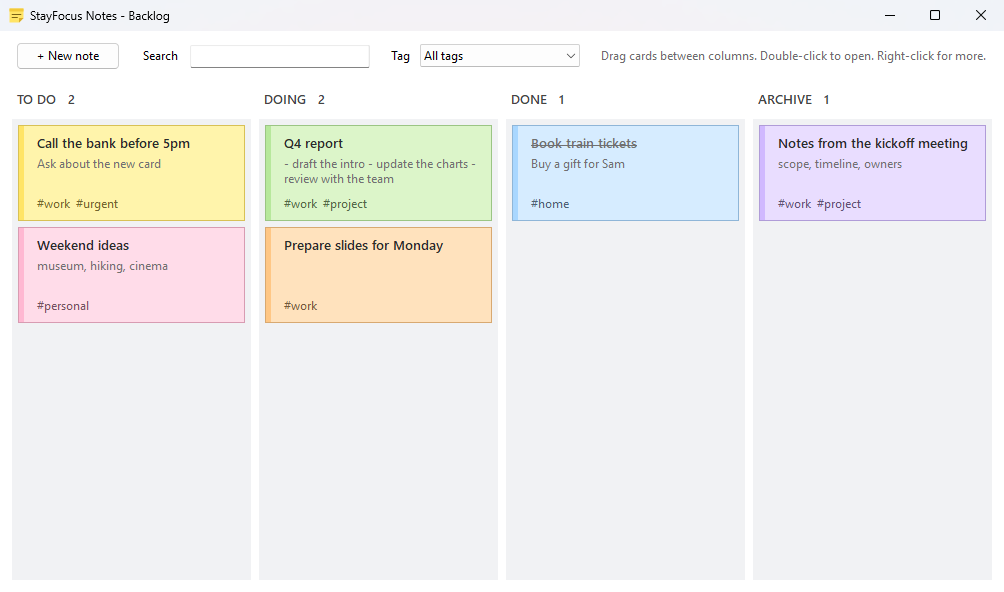
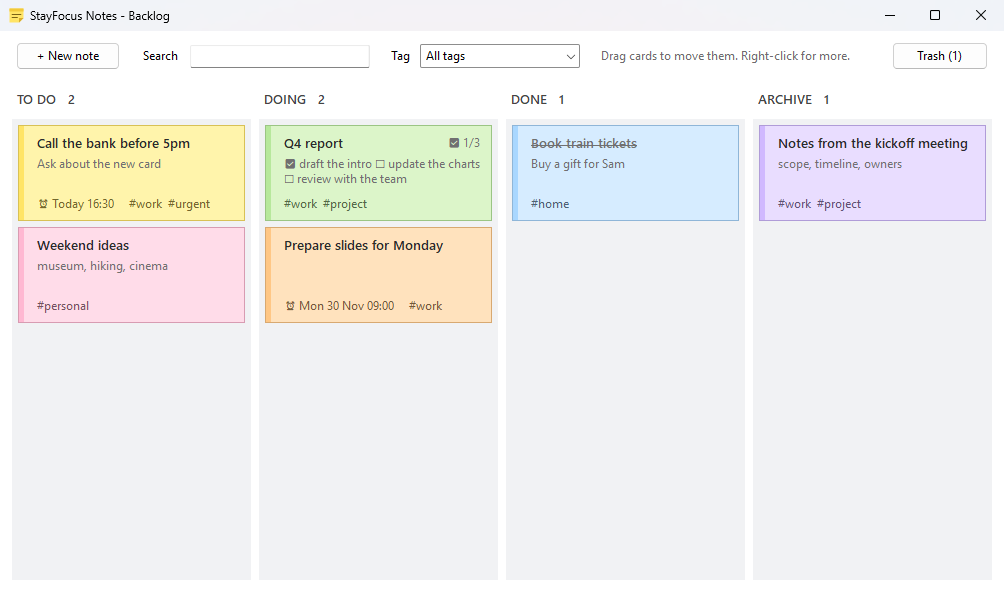
Update screenshots for 1.1.0 and add a dark theme one

diff --git a/README.md b/README.md
@@ -17,6 +17,8 @@ Sticky notes for the Windows desktop that appear and disappear with one keyboard
 
 ![The backlog board](docs/backlog.png)
 
+![The same notes in the dark theme](docs/dark.png)
+
 ## Install
 
 Requires Windows 10 or 11.
